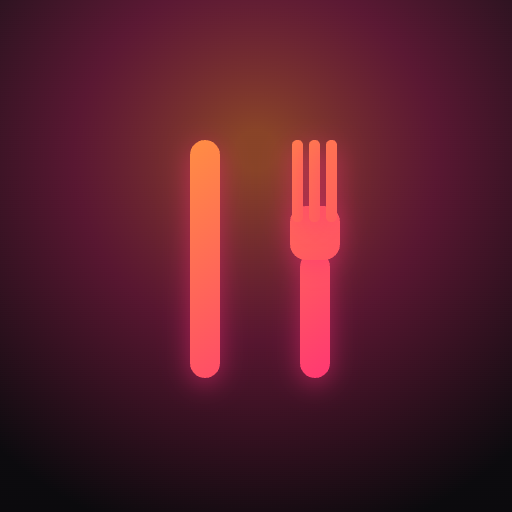
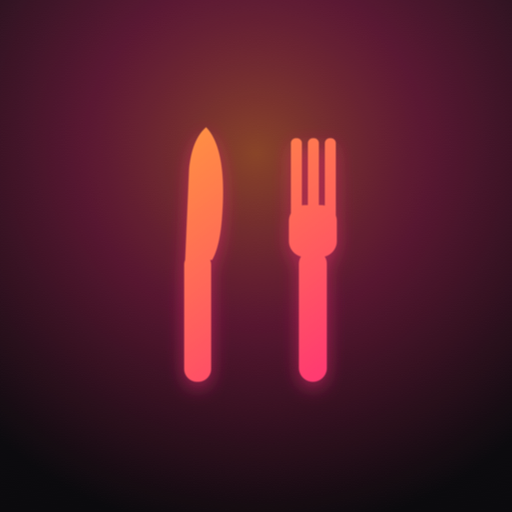
Icoon: scherper mesblad met punt
Mes getekend als echt blad met tapse punt en heft, i.p.v. een rechte staaf.
Iconen opnieuw gerenderd (192/512/apple-touch).

diff --git a/sw.js b/sw.js
@@ -1,12 +1,12 @@
 /* Offline-cache voor de Voedingscoach.
    Netwerk-eerst voor eigen bestanden, zodat updates altijd doorkomen;
    valt terug op cache als je offline bent. Verhoog CACHE bij elke update. */
-const CACHE = "voedingscoach-v10";
+const CACHE = "voedingscoach-v11";
 const ASSETS = [
   "./",
   "./index.html",
-  "./styles.css?v=10",
-  "./app.js?v=10",
+  "./styles.css?v=11",
+  "./app.js?v=11",
   "./coach.jpg",
   "./icon-192.png",
   "./icon-512.png",

diff --git a/index.html b/index.html
@@ -12,7 +12,7 @@
     <meta name="mobile-web-app-capable" content="yes" />
     <meta name="apple-mobile-web-app-status-bar-style" content="black-translucent" />
     <meta name="apple-mobile-web-app-title" content="Isa's week" />
-    <link rel="stylesheet" href="styles.css?v=10" />
+    <link rel="stylesheet" href="styles.css?v=11" />
   </head>
   <body>
     <div id="splash" class="splash" aria-hidden="true">
@@ -45,6 +45,6 @@
 
     <div id="toast" class="toast" aria-live="polite"></div>
 
-    <script src="app.js?v=10"></script>
+    <script src="app.js?v=11"></script>
   </body>
 </html>